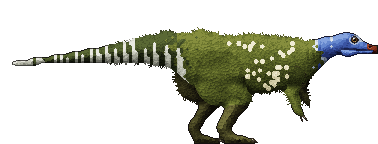
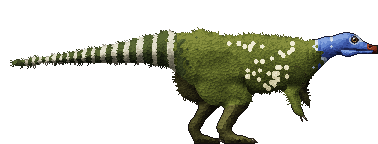
Thescelosaurus: its tail's bands wrap it, ragged as fuzz, closer to a dark tip
Each pale band is bowed with the round of the tail, no two as wide, soft
at its edges along the run of the fuzz (now over the whole tail), shaded
underneath, closer together towards the tip, which ends dark: no barcode.

Changed region(s): [[0.0291, 0.1944, 0.4947, 0.5556]]

diff --git a/internal/dinopaint/thesc.go b/internal/dinopaint/thesc.go
@@ -1,6 +1,9 @@
 package dinopaint
 
-import "image/color"
+import (
+	"image/color"
+	"math"
+)
 
 // The little runner, drawn again as the user asked: dinos/thesc.png, 126 x
 // 48, facing right, a Thescelosaurus as the paleo-illustrators show it:
@@ -80,6 +83,18 @@ func thesc() *Species {
 				Ramp: []uint32{0x0c0e08, 0x14180c, 0x1c2210, 0x262e16, 0x30381c, 0x3c4622, 0x4a562a, 0x5a6834}},
 			{Name: "band", Seeds: []uint32{0xc6cabc},
 				Ramp: []uint32{0x4a4c46, 0x66685e, 0x828478, 0x9ea092, 0xb6b8aa, 0xcacbbe, 0xdadbd0, 0xe8e8e0}, Smooth: 0.35, Bias: 0.12, Relief: 0.5},
+			// The tail's bands, painted again over the drawing's barcode: each
+			// wraps the round of the tail, a little bowed, soft and ragged at
+			// its edges as fuzz is, no two quite as wide, closer to the tip,
+			// pale cream-grey shading darker underneath; the tip dark.
+			{Name: "tailBase", Ramp: []uint32{0x0c0e08, 0x14180c, 0x1c2210, 0x262e16, 0x30381c, 0x3c4622, 0x4a562a, 0x5a6834},
+				Region: Poly(-2, 8, 63, 8, 63, 30, -2, 30), Only: []string{"band"}},
+			{Name: "tailBand", Ramp: []uint32{0x4c4a40, 0x666356, 0x807d6c, 0x9a9682, 0xb2ad96, 0xc6c1a8, 0xd6d2bc, 0xe4e1ce},
+				Region: thescTailBands(false), Only: []string{"tailDark", "tailBase", "olive"}, Relief: 0.5},
+			{Name: "tailBandUnder", Ramp: []uint32{0x36352c, 0x4a483c, 0x5e5b4c, 0x726e5c, 0x86826c, 0x9a957e, 0xaca890, 0xbcb8a2},
+				Region: thescTailBands(true), Only: []string{"tailBand"}, Relief: 0.5},
+			{Name: "tailTip", Ramp: []uint32{0x0c0e08, 0x14180c, 0x1c2210, 0x262e16, 0x30381c, 0x3c4622, 0x4a562a, 0x5a6834},
+				Region: Poly(-2, 8, 5.2, 8, 5.2, 30, -2, 30)},
 			// The legs, dark olive-brown, the lower legs and feet scaly.
 			{Name: "leg", Seeds: []uint32{0x3e3e1e, 0x2e2e18, 0x525a2c, 0x3a4020},
 				Ramp: []uint32{0x0e0c06, 0x18160c, 0x242210, 0x302e16, 0x3e3c1e, 0x4e4c26, 0x605e30, 0x74723c}},
@@ -138,7 +153,7 @@ func thesc() *Species {
 // thescFuzz is its coat: fine filaments over the body, the upper arms, the
 // thighs and the root of the tail, lying back along it, tufted at the
 // outline.
-var thescFuzz = FuzzSpec{Region: Cut(Poly(36, 0, 112, 0, 112, 35, 36, 35), Poly(104, 0, 126, 0, 126, 24, 104, 24)), Flow: 2.9, Len: 0.9, Dens: 0.5, Seed: 7}
+var thescFuzz = FuzzSpec{Region: Cut(Poly(-2, 0, 112, 0, 112, 35, -2, 35), Poly(104, 0, 126, 0, 126, 24, 104, 24)), Flow: 2.9, Len: 0.9, Dens: 0.5, Seed: 7}
 
 func thescDetails(p *Painter) {
 	// Small pale cream spots over the shoulders and flanks, round, where the
@@ -173,4 +188,53 @@ func thescDetails(p *Painter) {
 	p.Claw(73, 46.6, 74.9, 47.4, 0.75, 0.2, thescClaw[:4])
 	p.Claw(101.2, 38.8, 102.6, 40.2, 0.6, 0.2, thescClaw)
 	p.Claw(100.4, 39.2, 100.9, 40.6, 0.5, 0.15, thescClaw[:4])
+}
+
+// thescTail is the tail's middle line and its half-thickness at x, as its
+// shape draws it.
+func thescTail(x float64) (y, r float64) {
+	pts := [][3]float64{{0.5, 21.6, 0.5}, {20, 19.6, 1.6}, {40, 17.6, 3.2}, {56, 16.4, 5.6}, {66, 18, 7.6}}
+	if x <= pts[0][0] {
+		return pts[0][1], pts[0][2]
+	}
+	for i := 0; i+1 < len(pts); i++ {
+		if a, b := pts[i], pts[i+1]; x <= b[0] {
+			t := (x - a[0]) / (b[0] - a[0])
+			return lerp(a[1], b[1], t), lerp(a[2], b[2], t)
+		}
+	}
+	return pts[len(pts)-1][1], pts[len(pts)-1][2]
+}
+
+// thescTailBands are the pale bands round the tail (under: only their
+// undersides, shaded): from its root to its tip, closer together and a
+// little narrower each, each bowed with the round of the tail, ragged at its
+// edges along the run of the fuzz.
+func thescTailBands(under bool) SDF {
+	type band struct{ x, w float64 }
+	var bs []band
+	x, gap := 57.0, 5.4
+	for i := 0; x > 7.5; i++ {
+		w := gap * (0.42 + 0.28*(hash(i, 5, 61)-0.5))
+		bs = append(bs, band{x, w})
+		x -= gap
+		gap = max(2.3, gap*0.91)
+	}
+	return func(px, py float64) float64 {
+		yc, r := thescTail(px)
+		v := (py - yc) / max(r, 0.4)
+		if math.Abs(v) > 1.25 || px > 61 {
+			return 1
+		}
+		if under && v < 0.3 {
+			return 1
+		}
+		d := math.Inf(1)
+		for _, b := range bs {
+			bx := b.x + 0.5*min(1, r/2)*(v*v-0.35) // bowed: its middle nearer the tip
+			d = min(d, math.Abs(px-bx)-b.w/2)
+		}
+		// ragged along the hair: streaks running back down the tail
+		return d + 0.7*(noise(px*0.8, py*3.4, 67)-0.5) + 0.3*(noise(px*2.8, py*2.8, 69)-0.5)
+	}
 }

diff --git a/internal/client/dinorig.go b/internal/client/dinorig.go
@@ -233,7 +233,8 @@ func rigCanvas(r dinoRig, p rigPose) (c *canvas, ax, ay float64, ok bool) {
 	}
 	if p.tail != 0 && r.tail.maxY != 0 {
 		turn(w, shift(r.tail), p.tail, 4*kf) // + lifts a tail that points back
-		despeck(w, 0, 0, w.w, w.h, 2) // a strand of its fuzz or a feather tip turned off it
+		// No strand of its fuzz or feather tip left turned off it.
+		despeck(w, 0, 0, w.w, w.h, 2)
 	}
 	if p.sweep != 0 && r.tail.maxY != 0 {
 		sweep(w, shift(r.tail), p.sweep, kf) // see ankylorig.go
